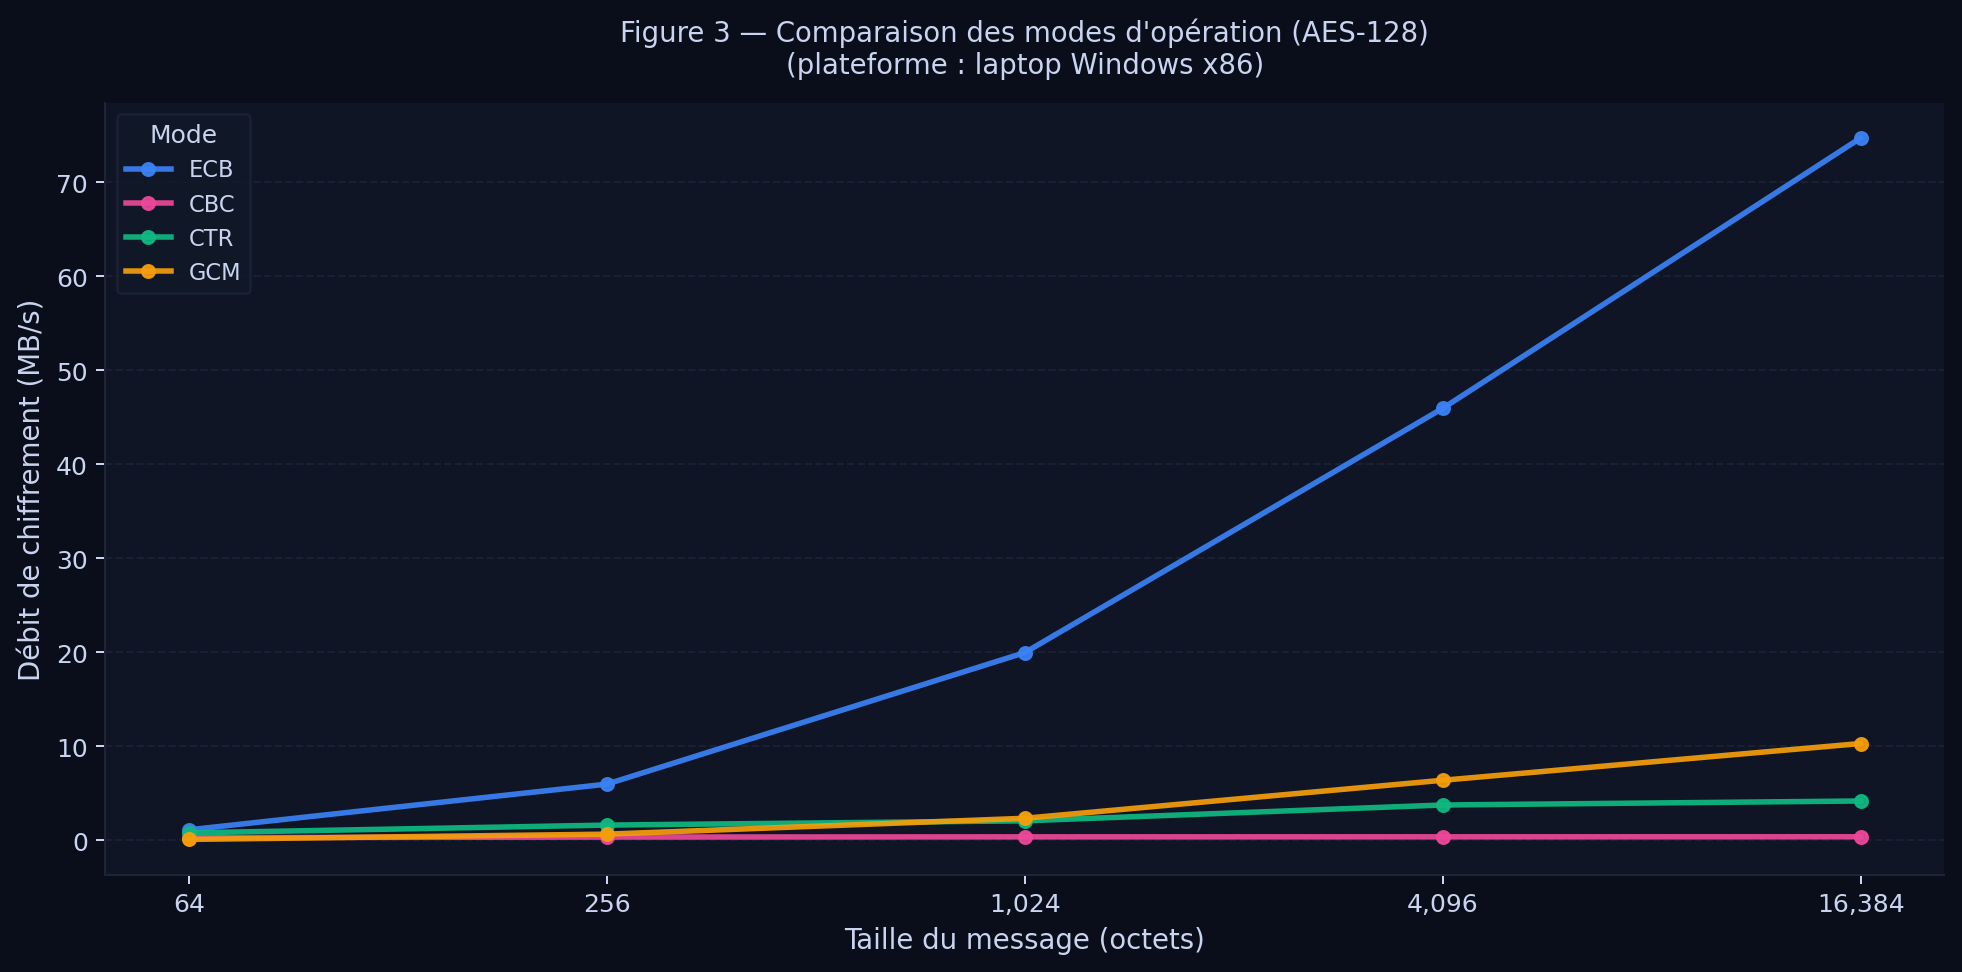
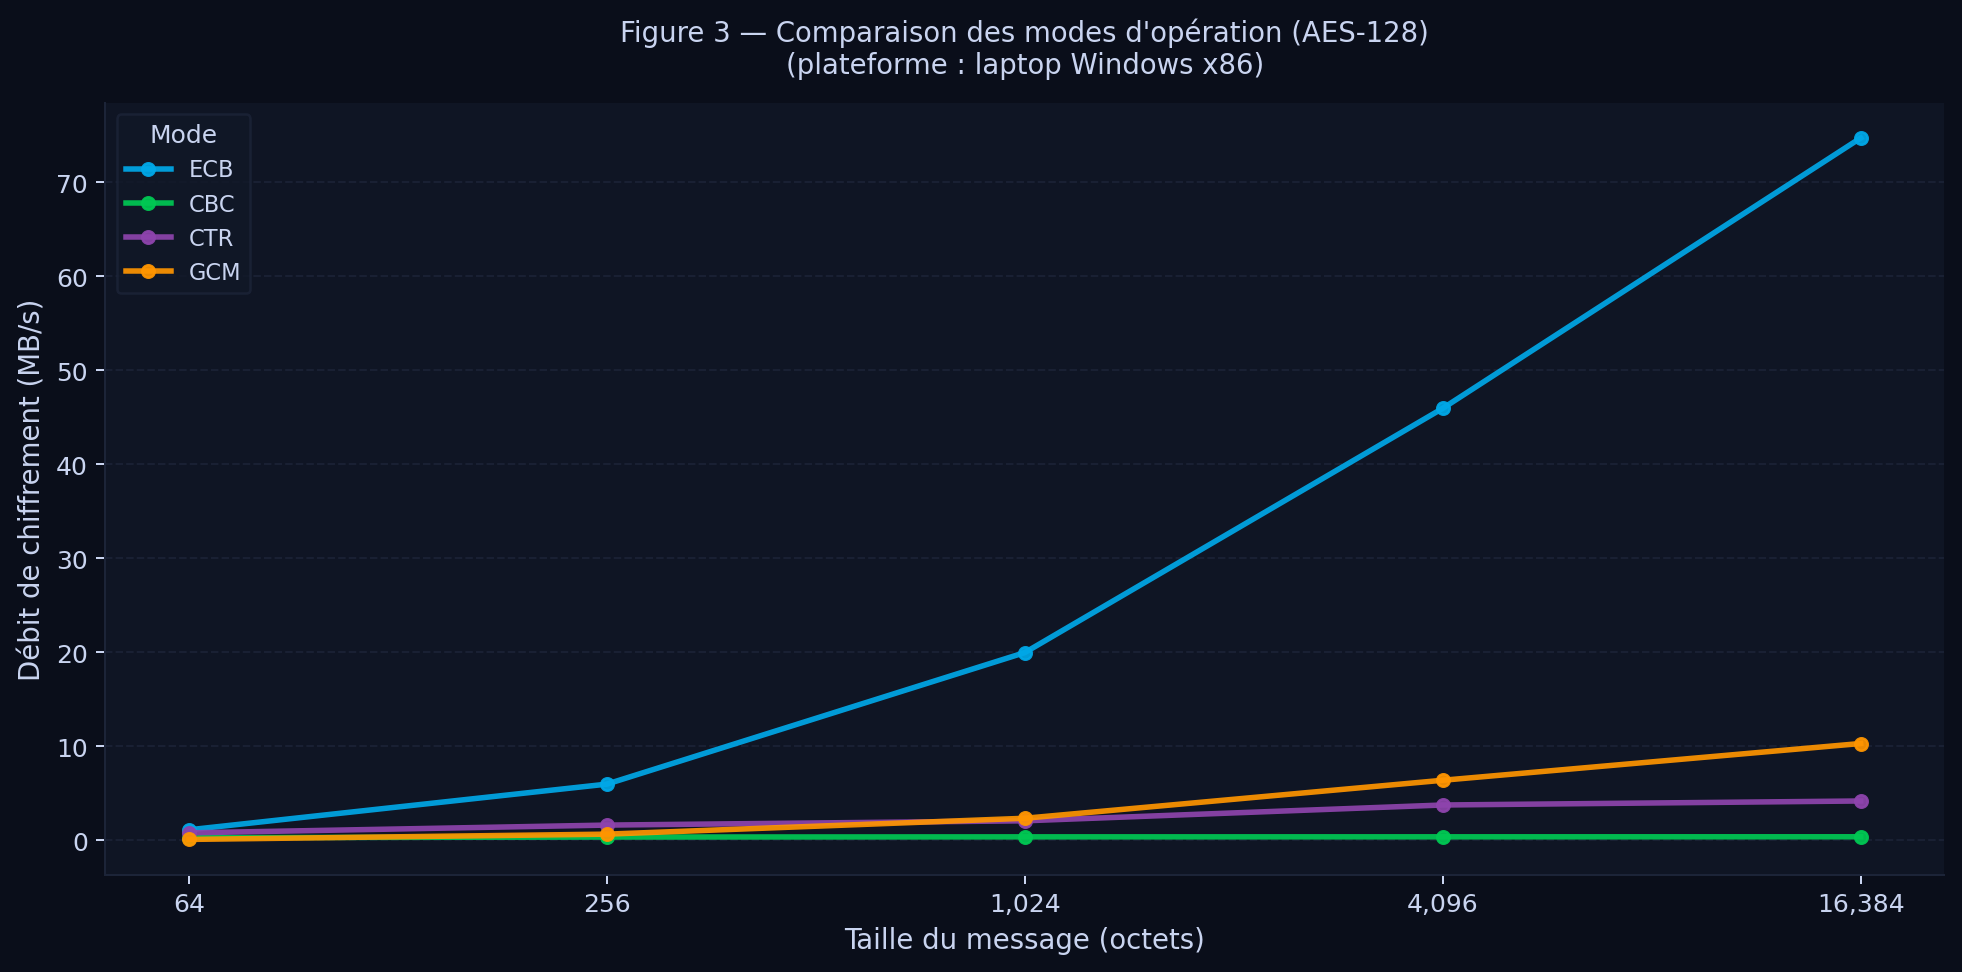
commit

diff --git a/crypto-experiments/scripts/generate_charts.py b/crypto-experiments/scripts/generate_charts.py
@@ -85,7 +85,9 @@ plt.rcParams.update({
     "legend.labelcolor": TEXT_COLOR,
     "font.family":       "DejaVu Sans",
     "axes.titlepad":     12,
+    "hatch.linewidth":   1.0,
 })
+matplotlib.rcParams["hatch.color"] = (1.0, 1.0, 1.0, 0.35)  # semi-transparent white
 
 ALGO_COLORS = {
     "AES":      "#3B82F6",   # vivid blue
@@ -95,12 +97,12 @@ ALGO_COLORS = {
     "ChaCha20": "#06B6D4",   # cyan
 }
 MODE_COLORS = {
-    "ECB": "#3B82F6",   # blue
-    "CBC": "#EC4899",   # pink
-    "CTR": "#10B981",   # green
-    "GCM": "#F59E0B",   # amber
+    "ECB": "#00A8E8",   # saturated blue
+    "CBC": "#00C853",   # saturated green
+    "CTR": "#8E44AD",   # saturated purple
+    "GCM": "#FF9500",   # saturated orange
 }
-MODE_HATCH = {"ECB": "", "CBC": "//", "CTR": "xx", "GCM": ".."}
+MODE_HATCH = {"ECB": "", "CBC": "/", "CTR": "x", "GCM": "."}
 
 DPI   = 180
 FIG_W = 11
@@ -302,7 +304,7 @@ def fig4_avalanche():
 
     _style_ax(ax)
     plt.tight_layout()
-    savefig("fig4_avalanche.png")
+    savefig("02-avalanche-effect/avalanche-par-algorithme.png")
 
 
 # ===========================================================================
@@ -351,7 +353,7 @@ def fig4b_key_avalanche():
                 f"{m:.3f}", ha="center", va="bottom", fontsize=8, color=c)
     _style_ax(ax)
     plt.tight_layout()
-    savefig("fig4b_key_avalanche.png")
+    savefig("02-avalanche-effect/avalanche-texte-vs-cle.png")
 
 
 # ===========================================================================
@@ -391,7 +393,7 @@ def fig5_enc_vs_dec():
     ax.legend(fontsize=9)
     _style_ax(ax)
     plt.tight_layout()
-    savefig("fig5_enc_vs_dec_ecb.png")
+    savefig("03-encryption-modes/chiffrement-vs-dechiffrement-ecb.png")
 
 
 # ===========================================================================
@@ -431,7 +433,7 @@ def fig6_key_size_impact():
     ax.legend(title="Mode", fontsize=9)
     _style_ax(ax)
     plt.tight_layout()
-    savefig("fig6_aes_key_size.png")
+    savefig("03-encryption-modes/aes-impact-taille-cle.png")
 
 
 # ===========================================================================
@@ -443,36 +445,86 @@ def algo_profile(algo_name):
     algo_data = [r for r in rows if r["algorithm"] == algo_name]
     if not algo_data:
         return
-    
-    # Filtre : message de 4096 octets
+
+    algo_color = ALGO_COLORS.get(algo_name, "#888")
+
+    # --- Stream ciphers (ChaCha20) : pas de modes bloc, afficher débit vs taille ---
+    modes_in_data = {r["mode"] for r in algo_data}
+    if modes_in_data == {"Stream"} or len(modes_in_data) == 1 and "Stream" in modes_in_data:
+        msg_sizes = sorted({r["message_size_bytes"] for r in algo_data})
+        enc_vals = []
+        dec_vals = []
+        for s in msg_sizes:
+            match = [r for r in algo_data if r["message_size_bytes"] == s]
+            enc_vals.append(np.mean([r["throughput_enc_mbps"] for r in match]))
+            dec_vals.append(np.mean([r["throughput_dec_mbps"] for r in match]))
+
+        fig, (ax1, ax2) = plt.subplots(2, 1, figsize=(10, 8))
+        fig.patch.set_facecolor(BG_COLOR)
+
+        x = np.arange(len(msg_sizes))
+        w = 0.35
+        ax1.bar(x - w/2, enc_vals, w, label="Chiffrement", color=algo_color, alpha=0.85, edgecolor=BG_COLOR)
+        ax1.bar(x + w/2, dec_vals, w, label="Déchiffrement", color=algo_color, alpha=0.50, edgecolor=BG_COLOR)
+        ax1.set_xticks(x)
+        ax1.set_xticklabels([f"{s:,}" for s in msg_sizes])
+        ax1.set_xlabel("Taille du message (octets)", fontsize=10)
+        ax1.set_ylabel("Débit (MB/s)", fontsize=10)
+        ax1.set_title(f"Profil {algo_name} — Débit chiffrement vs déchiffrement par taille de message",
+                      fontsize=11, fontweight="bold")
+        ax1.legend(fontsize=9)
+        _style_ax(ax1)
+
+        # Avalanche scores by message size
+        aval_vals = [np.mean([r["avalanche_score"] for r in algo_data if r["message_size_bytes"] == s])
+                     for s in msg_sizes]
+        ax2.bar(x, aval_vals, 0.5, color=algo_color, alpha=0.75, edgecolor=BG_COLOR)
+        ax2.axhline(0.5, color="#475569", linestyle="--", linewidth=1.2, alpha=0.7)
+        ax2.set_xticks(x)
+        ax2.set_xticklabels([f"{s:,}" for s in msg_sizes])
+        ax2.set_xlabel("Taille du message (octets)", fontsize=10)
+        ax2.set_ylabel("Score d'avalanche", fontsize=10)
+        ax2.set_ylim(0.45, 0.65)
+        ax2.set_title("Score d'effet d'avalanche par taille de message", fontsize=10)
+        _style_ax(ax2)
+
+        plt.tight_layout()
+        savefig(f"06-algorithm-profiles/{algo_name.lower()}-profile.png")
+        return
+
+    # --- Block ciphers : débit et avalanche par mode et taille de clé (4096 o) ---
     data_4096 = [r for r in algo_data if r["message_size_bytes"] == 4096]
     if not data_4096:
         return
-    
+
     modes_available = sorted({r["mode"] for r in data_4096})
     key_bits_list = sorted({r["key_size_bits"] for r in data_4096})
-    algo_color = ALGO_COLORS.get(algo_name, "#888")
-    
+
+    import matplotlib.colors as mcolors
+    base_rgb = mcolors.to_rgb(algo_color)
+    n = len(modes_available)
+    alphas = np.linspace(0.35, 0.95, n)
+    shade_colors = [(*base_rgb, a) for a in alphas]
+    mode_shade = {mode: shade_colors[i] for i, mode in enumerate(modes_available)}
+
     fig, (ax1, ax2) = plt.subplots(2, 1, figsize=(10, 8))
     fig.patch.set_facecolor(BG_COLOR)
-    
-    # ===== Ligne 1 : Débit (MB/s) par mode et taille de clé
+
     x = np.arange(len(key_bits_list))
     w = 0.18
-    offsets = np.linspace(-(len(modes_available)-1)/2 * w, 
+    offsets = np.linspace(-(len(modes_available)-1)/2 * w,
                           (len(modes_available)-1)/2 * w, len(modes_available))
-    
+
     for offset, mode in zip(offsets, modes_available):
         vals = []
         for kb in key_bits_list:
             match = [r for r in data_4096 if r["mode"] == mode and r["key_size_bits"] == kb]
             vals.append(match[0]["throughput_enc_mbps"] if match else 0)
-        # Vary alpha by mode for visual distinction
-        alpha_val = 0.5 + (modes_available.index(mode) * 0.1)
         ax1.bar(x + offset, vals, w, label=mode,
-               color=algo_color,
-               edgecolor=BG_COLOR, linewidth=0.8, alpha=alpha_val)
-    
+               color=mode_shade[mode],
+               edgecolor="none", linewidth=0,
+               hatch=MODE_HATCH.get(mode, ""))
+
     ax1.set_xticks(x)
     ax1.set_xticklabels([f"{k} bits" for k in key_bits_list])
     ax1.set_ylabel("Débit de chiffrement (MB/s)", fontsize=10)
@@ -480,18 +532,17 @@ def algo_profile(algo_name):
                   fontsize=11, fontweight="bold")
     ax1.legend(title="Mode", fontsize=8, ncol=4)
     _style_ax(ax1)
-    
-    # ===== Ligne 2 : Score d'avalanche par mode et taille de clé
+
     for offset, mode in zip(offsets, modes_available):
         vals = []
         for kb in key_bits_list:
             match = [r for r in data_4096 if r["mode"] == mode and r["key_size_bits"] == kb]
             vals.append(match[0]["avalanche_score"] if match else 0)
-        alpha_val = 0.5 + (modes_available.index(mode) * 0.1)
         ax2.bar(x + offset, vals, w, label=mode,
-               color=algo_color,
-               edgecolor=BG_COLOR, linewidth=0.8, alpha=alpha_val)
-    
+               color=mode_shade[mode],
+               edgecolor="none", linewidth=0,
+               hatch=MODE_HATCH.get(mode, ""))
+
     ax2.axhline(0.5, color="#475569", linestyle="--", linewidth=1.2, alpha=0.7)
     ax2.set_xticks(x)
     ax2.set_xticklabels([f"{k} bits" for k in key_bits_list])
@@ -500,10 +551,9 @@ def algo_profile(algo_name):
     ax2.set_ylim(0.45, 0.55)
     ax2.set_title("Score d'effet d'avalanche par mode et taille de clé", fontsize=10)
     _style_ax(ax2)
-    
+
     plt.tight_layout()
-    filename = f"06-algorithm-profiles/{algo_name.lower()}-profile.png"
-    savefig(filename)
+    savefig(f"06-algorithm-profiles/{algo_name.lower()}-profile.png")
 
 
 # ===========================================================================
